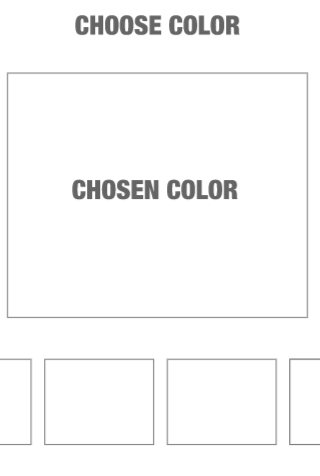
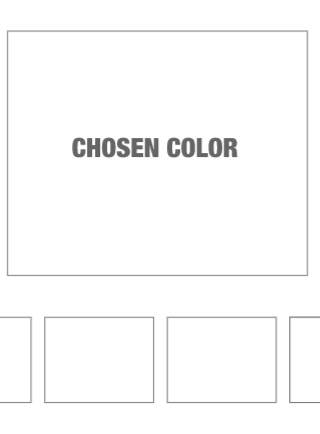
replaced mock titles with real titles

diff --git a/phone-app/demo.html b/phone-app/demo.html
@@ -24,11 +24,23 @@
 <body>
   <h1>Components</h1>
 
-  <h3>c-button</h3>
-  <c-button>Start</c-button>
-  <br>
-  <c-button disabled>...Saving</c-button>
+  <section>
+    <h2>c-button</h2>
+    <c-button>Start</c-button>
+    <c-button disabled>...Saving</c-button>
+  </section>
 
+  <section>
+    <c-page>
+      <h1 slot="header">Example title</h1>
+      <p>Aliquip ea id aliquip esse qui veniam esse. Ipsum aliqua veniam cupidatat dolore minim aute eiusmod fugiat ad culpa. Voluptate non sunt nostrud nostrud officia consequat laborum occaecat. Voluptate quis magna occaecat deserunt esse id. Fugiat sint minim aliqua ex incididunt cupidatat qui anim mollit consectetur voluptate. Proident ullamco ad exercitation tempor enim incididunt.</p>
+      <p>Aliquip ea id aliquip esse qui veniam esse. Ipsum aliqua veniam cupidatat dolore minim aute eiusmod fugiat ad culpa. Voluptate non sunt nostrud nostrud officia consequat laborum occaecat. Voluptate quis magna occaecat deserunt esse id. Fugiat sint minim aliqua ex incididunt cupidatat qui anim mollit consectetur voluptate. Proident ullamco ad exercitation tempor enim incididunt.</p>
+      <p>Aliquip ea id aliquip esse qui veniam esse. Ipsum aliqua veniam cupidatat dolore minim aute eiusmod fugiat ad culpa. Voluptate non sunt nostrud nostrud officia consequat laborum occaecat. Voluptate quis magna occaecat deserunt esse id. Fugiat sint minim aliqua ex incididunt cupidatat qui anim mollit consectetur voluptate. Proident ullamco ad exercitation tempor enim incididunt.</p>
+      <p slot="footer">Footer content</p>
+    </c-page>
+  </section>
+
+  <script type="module" src="./out-tsc/src/components/c-page.js"></script>
   <script type="module" src="./out-tsc/src/components/c-button.js"></script>
 </body>
 

diff --git a/phone-app/src/pages/p-order-frame.ts b/phone-app/src/pages/p-order-frame.ts
@@ -1,36 +1,17 @@
 import { LitElement, html, css } from 'lit';
 import { property, state } from 'lit/decorators.js';
 import { StoreBase } from '../store.js';
-import '../components/c-order-page.js';
+import '../components/c-page.js';
 import '../components/c-button.js';
 
 export class POrderFrame extends StoreBase {
-  static styles = [...super.styles, css`
-    :host {
-      display: block;
-    }
-
-    #page {
-      position: relative;
-    }
-
-    #sketch {
-      position: absolute;
-      top: 72px;
-      width: 478px;
-      height: 246px;
-      left: calc(50% - 150px);
-    }
-  `];
-
   render() {
     return html`
-      <c-order-page id="page">
-        <a href="#">
-          <img src=${new URL('../../../assets/page-4.png', import.meta.url)}>
-        </a>
+      <c-page>
+        <h1 slot="header">3D print your bike frame</h1>
+        <img src=${new URL('../../../assets/page-4.png', import.meta.url)}>
         <c-button @click=${() => this.order?.send({ type: 'NEXT' })}>Next</c-button>
-      </c-order-page>
+      </c-page>
     `;
   }
 }

diff --git a/phone-app/src/components/c-page.ts b/phone-app/src/components/c-page.ts
@@ -8,17 +8,35 @@ export class CPage extends StoreBase {
     :host {
       display: flex;
       min-height: calc(100vh - calc(${variable('navHeight')} * 2));
-      min-width: 100vw;
+      width: 100vw;
       flex-direction: column;
       justify-content: center;
       align-items: center;
+    }
+    .header {
+      font-size: 1.2rem;
+      text-align: center;
+    }
+    .content {
+      text-align: center;
+    }
+    .footer {
+      text-align: center;
     }
   `];
 
   render() {
     return html`
 			<div class="base" part="base">
-				<slot></slot>
+        <div class="header" part="header">
+          <slot name="header"></slot>
+        </div>
+        <div class="content" part="content">
+          <slot></slot>
+        </div>
+        <div class="footer" part="footer">
+          <slot name="footer"></slot>
+        </div>
 			</div>
     `;
   }

diff --git a/phone-app/src/pages/p-order-shipping.ts b/phone-app/src/pages/p-order-shipping.ts
@@ -1,18 +1,19 @@
 import { LitElement, html, css } from 'lit';
 import { property, state } from 'lit/decorators.js';
 import { StoreBase } from '../store.js';
-import '../components/c-order-page.js';
+import '../components/c-page.js';
 
 export class POrderShipping extends StoreBase {
   render() {
     const isSaving = this.order?.state.matches('save');
     return html`
-      <c-order-page>
+      <c-page>
+        <h1>Finalize your bike</h1>
         <img src=${new URL('../../../assets/page-9.png', import.meta.url)}>
         <c-button .disabled=${isSaving} @click=${() => this.order?.send({ type: 'NEXT' })}>
           ${isSaving ? html` ...Saving ` : html` Ship it!  `}
         </c-button>
-      </c-order-page>
+      </c-page>
     `;
   }
 }

diff --git a/phone-app/src/pages/p-order-handles.ts b/phone-app/src/pages/p-order-handles.ts
@@ -1,16 +1,17 @@
 import { LitElement, html, css } from 'lit';
 import { property, state } from 'lit/decorators.js';
 import { StoreBase } from '../store.js';
-import '../components/c-order-page.js';
+import '../components/c-page.js';
 import '../components/c-button.js';
 
 export class POrderHandles extends StoreBase {
   render() {
     return html`
-      <c-order-page>
+      <c-page>
+        <h1 slot="header">Choose your handle bars</h1>
         <img src=${new URL('../../../assets/page-8.png', import.meta.url)}>
         <c-button @click=${() => this.order?.send({ type: 'NEXT' })}>Select</c-button>
-      </c-order-page>
+      </c-page>
     `;
   }
 }

diff --git a/phone-app/src/pages/p-order-wheels.ts b/phone-app/src/pages/p-order-wheels.ts
@@ -1,16 +1,17 @@
 import { LitElement, html, css } from 'lit';
 import { property, state } from 'lit/decorators.js';
 import { StoreBase } from '../store.js';
-import '../components/c-order-page.js';
+import '../components/c-page.js';
 import '../components/c-button.js';
 
 export class POrderWheels extends StoreBase {
   render() {
     return html`
-      <c-order-page>
+      <c-page>
+        <h1 slot="header">Choose your wheels</h1>
         <img src=${new URL('../../../assets/page-7.png', import.meta.url)}>
         <c-button @click=${() => this.order?.send({ type: 'NEXT' })}>Select</c-button>
-      </c-order-page>
+      </c-page>
     `;
   }
 }

diff --git a/phone-app/src/pages/p-order-bake.ts b/phone-app/src/pages/p-order-bake.ts
@@ -1,16 +1,17 @@
 import { LitElement, html, css } from 'lit';
 import { property, state } from 'lit/decorators.js';
 import { StoreBase } from '../store.js';
-import '../components/c-order-page.js';
+import '../components/c-page.js';
 import '../components/c-button.js';
 
 export class POrderBake extends StoreBase {
   render() {
     return html`
-      <c-order-page>
+      <c-page>
+        <h1 slot="header">Bake your bike frame</h1>
         <img src=${new URL('../../../assets/page-5.png', import.meta.url)}>
         <c-button @click=${() => this.order?.send({ type: 'NEXT' })}>Next</c-button>
-      </c-order-page>
+      </c-page>
     `;
   }
 }

diff --git a/phone-app/src/pages/p-order-seat.ts b/phone-app/src/pages/p-order-seat.ts
@@ -1,16 +1,17 @@
 import { LitElement, html, css } from 'lit';
 import { property, state } from 'lit/decorators.js';
 import { StoreBase } from '../store.js';
-import '../components/c-order-page.js';
+import '../components/c-page.js';
 import '../components/c-button.js';
 
 export class POrderSeat extends StoreBase {
   render() {
     return html`
-      <c-order-page>
+      <c-page>
+        <h1 slot="header">Choose your seat</h1>
         <img src=${new URL('../../../assets/page-6.png', import.meta.url)}>
         <c-button @click=${() => this.order?.send({ type: 'NEXT' })}>Select</c-button>
-      </c-order-page>
+      </c-page>
     `;
   }
 }

diff --git a/phone-app/src/pages/p-order-color.ts b/phone-app/src/pages/p-order-color.ts
@@ -1,16 +1,17 @@
 import { LitElement, html, css } from 'lit';
 import { property, state } from 'lit/decorators.js';
 import { StoreBase } from '../store.js';
-import '../components/c-order-page.js';
+import '../components/c-page.js';
 import '../components/c-button.js';
 
 export class POrderColor extends StoreBase {
   render() {
     return html`
-      <c-order-page>
+      <c-page>
+        <h1 slot="header">Choose color</h1>
         <img src=${new URL('../../../assets/page-3.png', import.meta.url)}>
         <c-button @click=${() => this.order?.send({ type: 'NEXT' })}>Spray</c-button>
-      </c-order-page>
+      </c-page>
     `;
   }
 }

diff --git a/phone-app/src/pages/p-default.ts b/phone-app/src/pages/p-default.ts
@@ -18,6 +18,7 @@ export class PDefault extends StoreBase {
   render() {
     return html`
       <c-page>
+        <h1 slot="header">Fulfill an order</h1>
         <img src=${new URL('../../../assets/page-2.png', import.meta.url)}>
         <c-button @click=${() => this.store.send({ type: 'FULFILL', orderId: 1 })}>Select</c-button>
       </c-page>

diff --git a/phone-app/src/components/c-button.ts b/phone-app/src/components/c-button.ts
@@ -6,6 +6,10 @@ import type { Store, OrderRef } from '../store.js';
 
 export class CButton extends StoreBase {
   static styles = [...super.styles, css`
+		:host {
+			display: inline-block;
+		}
+
 		button {
 			font-size: 1.2rem;
 		}

diff --git a/phone-app/index.html b/phone-app/index.html
@@ -19,9 +19,6 @@
       align-items: center;
       gap: 1em;
     }
-    bike-factory {
-      text-align: center;
-    }
   </style>
   <title>bike-factory</title>
 </head>
